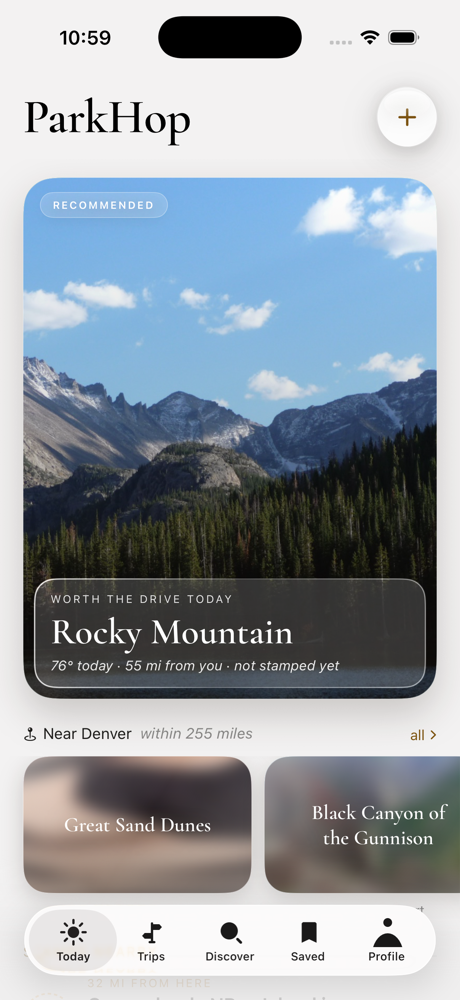
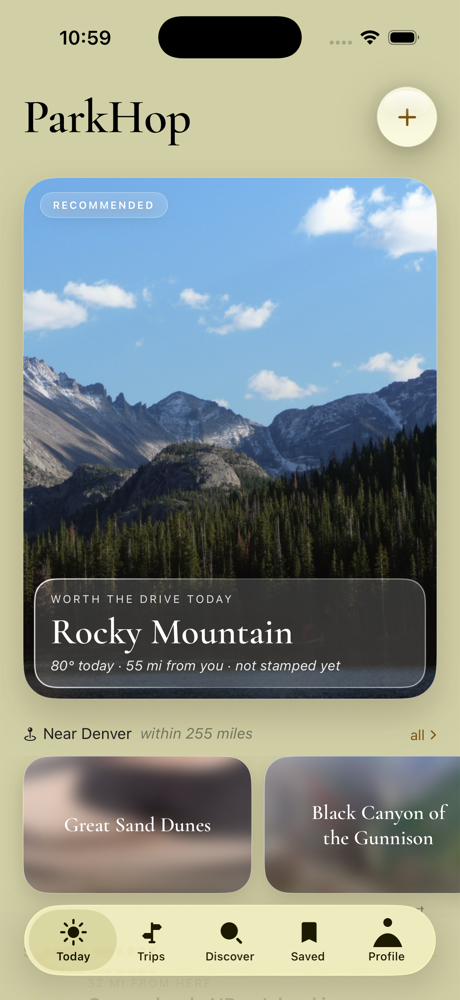
style: the page is #D1CFA5 (v2.14.0)
One token. The page colour goes from near-white to the sage the design
asked for; every other colour is untouched.

It needed one split to stay that way. `WP.bg` was doing two jobs — the
page, and the pale type that sits on ink: the trip cards, the permit
plate, the glyph on a dark disc, the road line under a driving day. Those
were the same colour as the page by coincidence rather than by intent, and
changing the page would have turned white type on black cards sage. They
read `WP.onInk` now, which holds the old paper colour.

The glass surfaces keep their own tints, so the header and the tab bar
still read as pale glass over the new page rather than taking its colour.

diff --git a/Waypost/Features/Trips/TripsScreen.swift b/Waypost/Features/Trips/TripsScreen.swift
@@ -106,7 +106,7 @@ struct TripsScreen: View {
                 ButtonGlow(strong: true)
                 Image(systemName: "plus")
                     .font(.system(size: 20, weight: .light))
-                    .foregroundStyle(WP.bg)
+                    .foregroundStyle(WP.onInk)
             }
             .frame(width: 44, height: 44)
             .clipShape(Circle())
@@ -182,7 +182,7 @@ struct TripCard: View {
         } label: {
             Image(systemName: "trash")
                 .font(.system(size: 13, weight: .regular))
-                .foregroundStyle(WP.bg)
+                .foregroundStyle(WP.onInk)
                 .frame(width: 34, height: 34)
                 .background(.white.opacity(0.12), in: Circle())
                 .overlay(Circle().stroke(.white.opacity(0.24), lineWidth: 0.5))
@@ -257,7 +257,7 @@ struct TripCard: View {
                         .padding(.horizontal, 18)
                 }
             }
-            .foregroundStyle(WP.bg)
+            .foregroundStyle(WP.onInk)
             .clipShape(RoundedRectangle(cornerRadius: 20, style: .continuous))
             .overlay(RoundedRectangle(cornerRadius: 20, style: .continuous)
                 .stroke(.white.opacity(0.18), lineWidth: 0.5))

diff --git a/Waypost/Design/Tokens.swift b/Waypost/Design/Tokens.swift
@@ -12,7 +12,12 @@ enum WP {
 
     // MARK: Palette
 
-    static let bg = Color(hex: 0xF3F2F2)
+    /// The page.
+    static let bg = Color(hex: 0xD1CFA5)
+    /// What sits *on* ink — the trip cards, the permit plate, the glyph on a dark disc.
+    /// This was `bg` when the page was near-white and the two were the same colour by
+    /// coincidence; they are different things and now they look it.
+    static let onInk = Color(hex: 0xF3F2F2)
     static let surface = Color(hex: 0xEAE9E9)
     static let text = Color(hex: 0x201F1D)
     static let accent = Color(hex: 0xB68235)

diff --git a/Waypost/Features/Sheets/DetailSheet.swift b/Waypost/Features/Sheets/DetailSheet.swift
@@ -90,7 +90,7 @@ struct DetailSheet: View {
                 Text("\(drop.what) — tap to open Recreation.gov with your dates filled in.")
                     .font(WP.body(12.5)).opacity(0.78).lineSpacing(2).padding(.top, 3)
             }
-            .foregroundStyle(WP.bg)
+            .foregroundStyle(WP.onInk)
             .padding(14)
             .frame(maxWidth: .infinity, alignment: .leading)
             .background(WP.ink, in: RoundedRectangle(cornerRadius: 16))

diff --git a/Waypost/Design/Glass.swift b/Waypost/Design/Glass.swift
@@ -506,7 +506,7 @@ struct ToastView: View {
             .padding(.horizontal, 16)
             .padding(.vertical, 9)
             .background(WP.ink, in: Capsule())
-            .foregroundStyle(WP.bg)
+            .foregroundStyle(WP.onInk)
             .shadow(color: WP.neutral900.opacity(0.22), radius: 16, y: 8)
             .transition(.move(edge: .bottom).combined(with: .opacity))
     }

diff --git a/Waypost/App/WaypostApp.swift b/Waypost/App/WaypostApp.swift
@@ -255,7 +255,7 @@ struct TabIcon: View {
                 Capsule().frame(width: 6.4, height: 2.6)
                     .rotationEffect(.degrees(45)).offset(x: 7.5, y: 7.5)
                 NeedleShape()
-                    .fill(WP.bg)
+                    .fill(WP.onInk)
                     .frame(width: 8, height: 8)
                     .offset(x: -1.2, y: -1.2)
             }

diff --git a/Waypost/Features/Today/TodayScreen.swift b/Waypost/Features/Today/TodayScreen.swift
@@ -407,7 +407,7 @@ struct DrivingDayCard: View {
 
                     Text(leg.road)
                         .font(WP.body(12.5))
-                        .foregroundStyle(WP.bg.opacity(0.85))
+                        .foregroundStyle(WP.onInk.opacity(0.85))
                         .padding(.horizontal, 2)
                         .padding(.top, 12)
                 }
